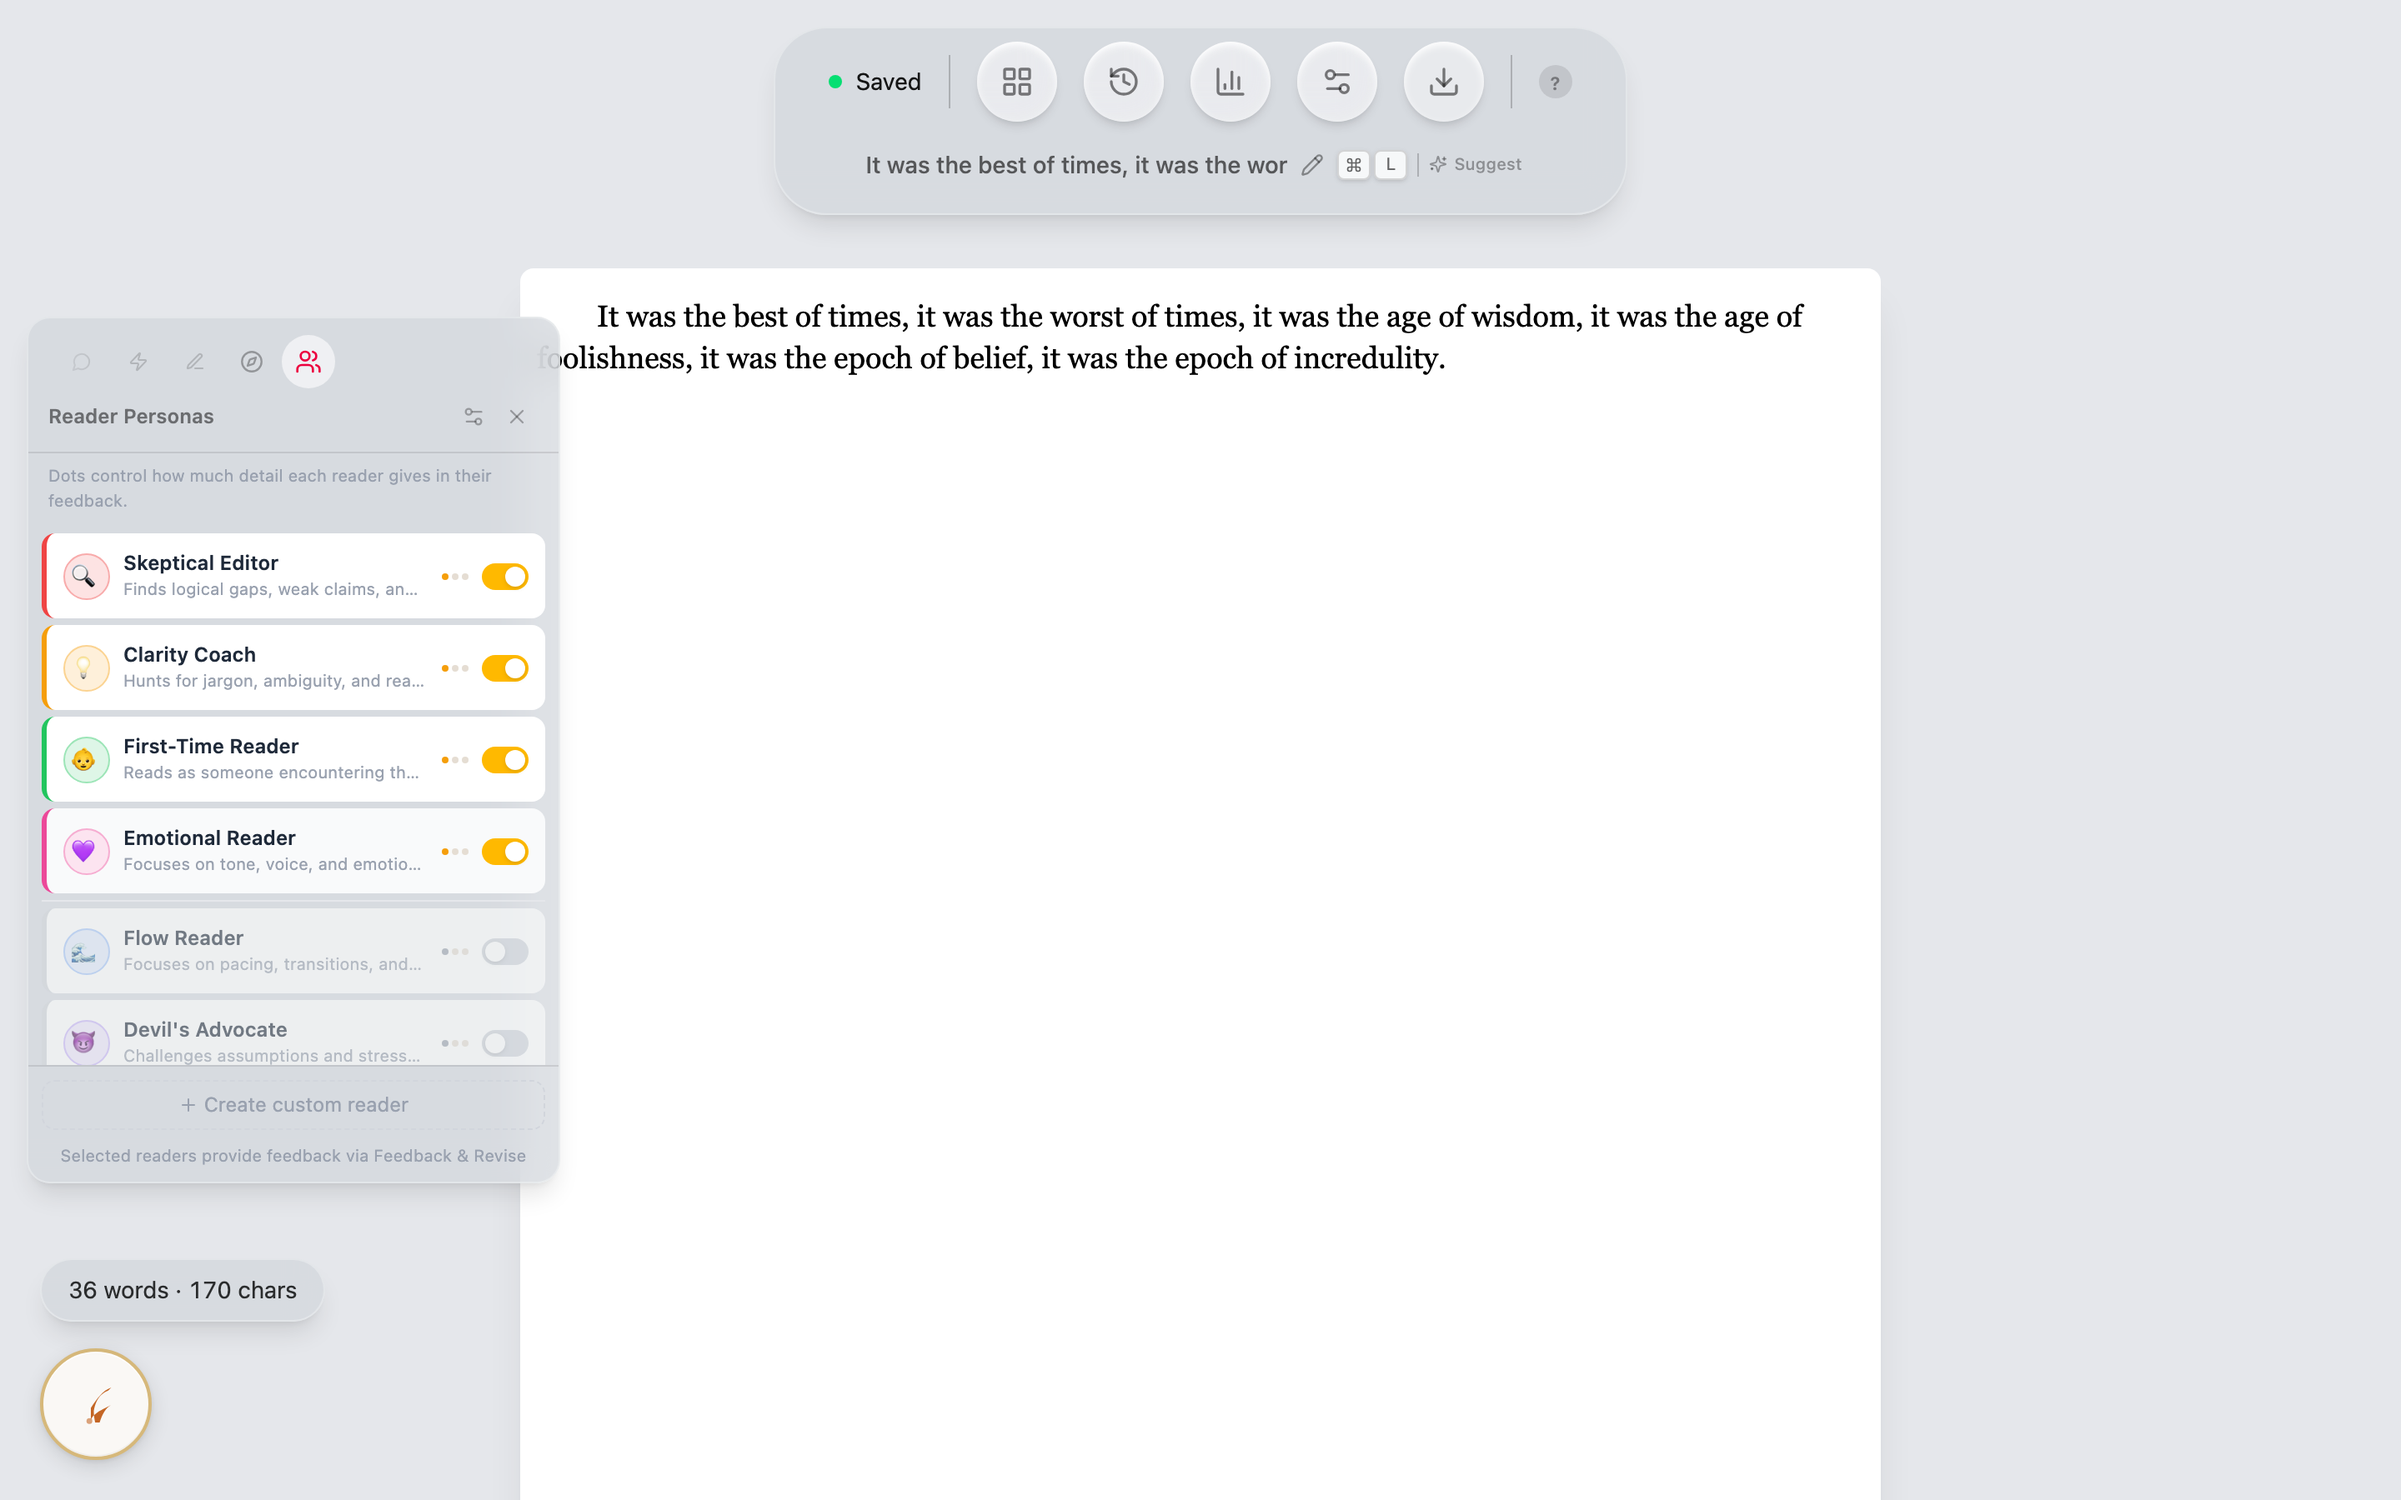
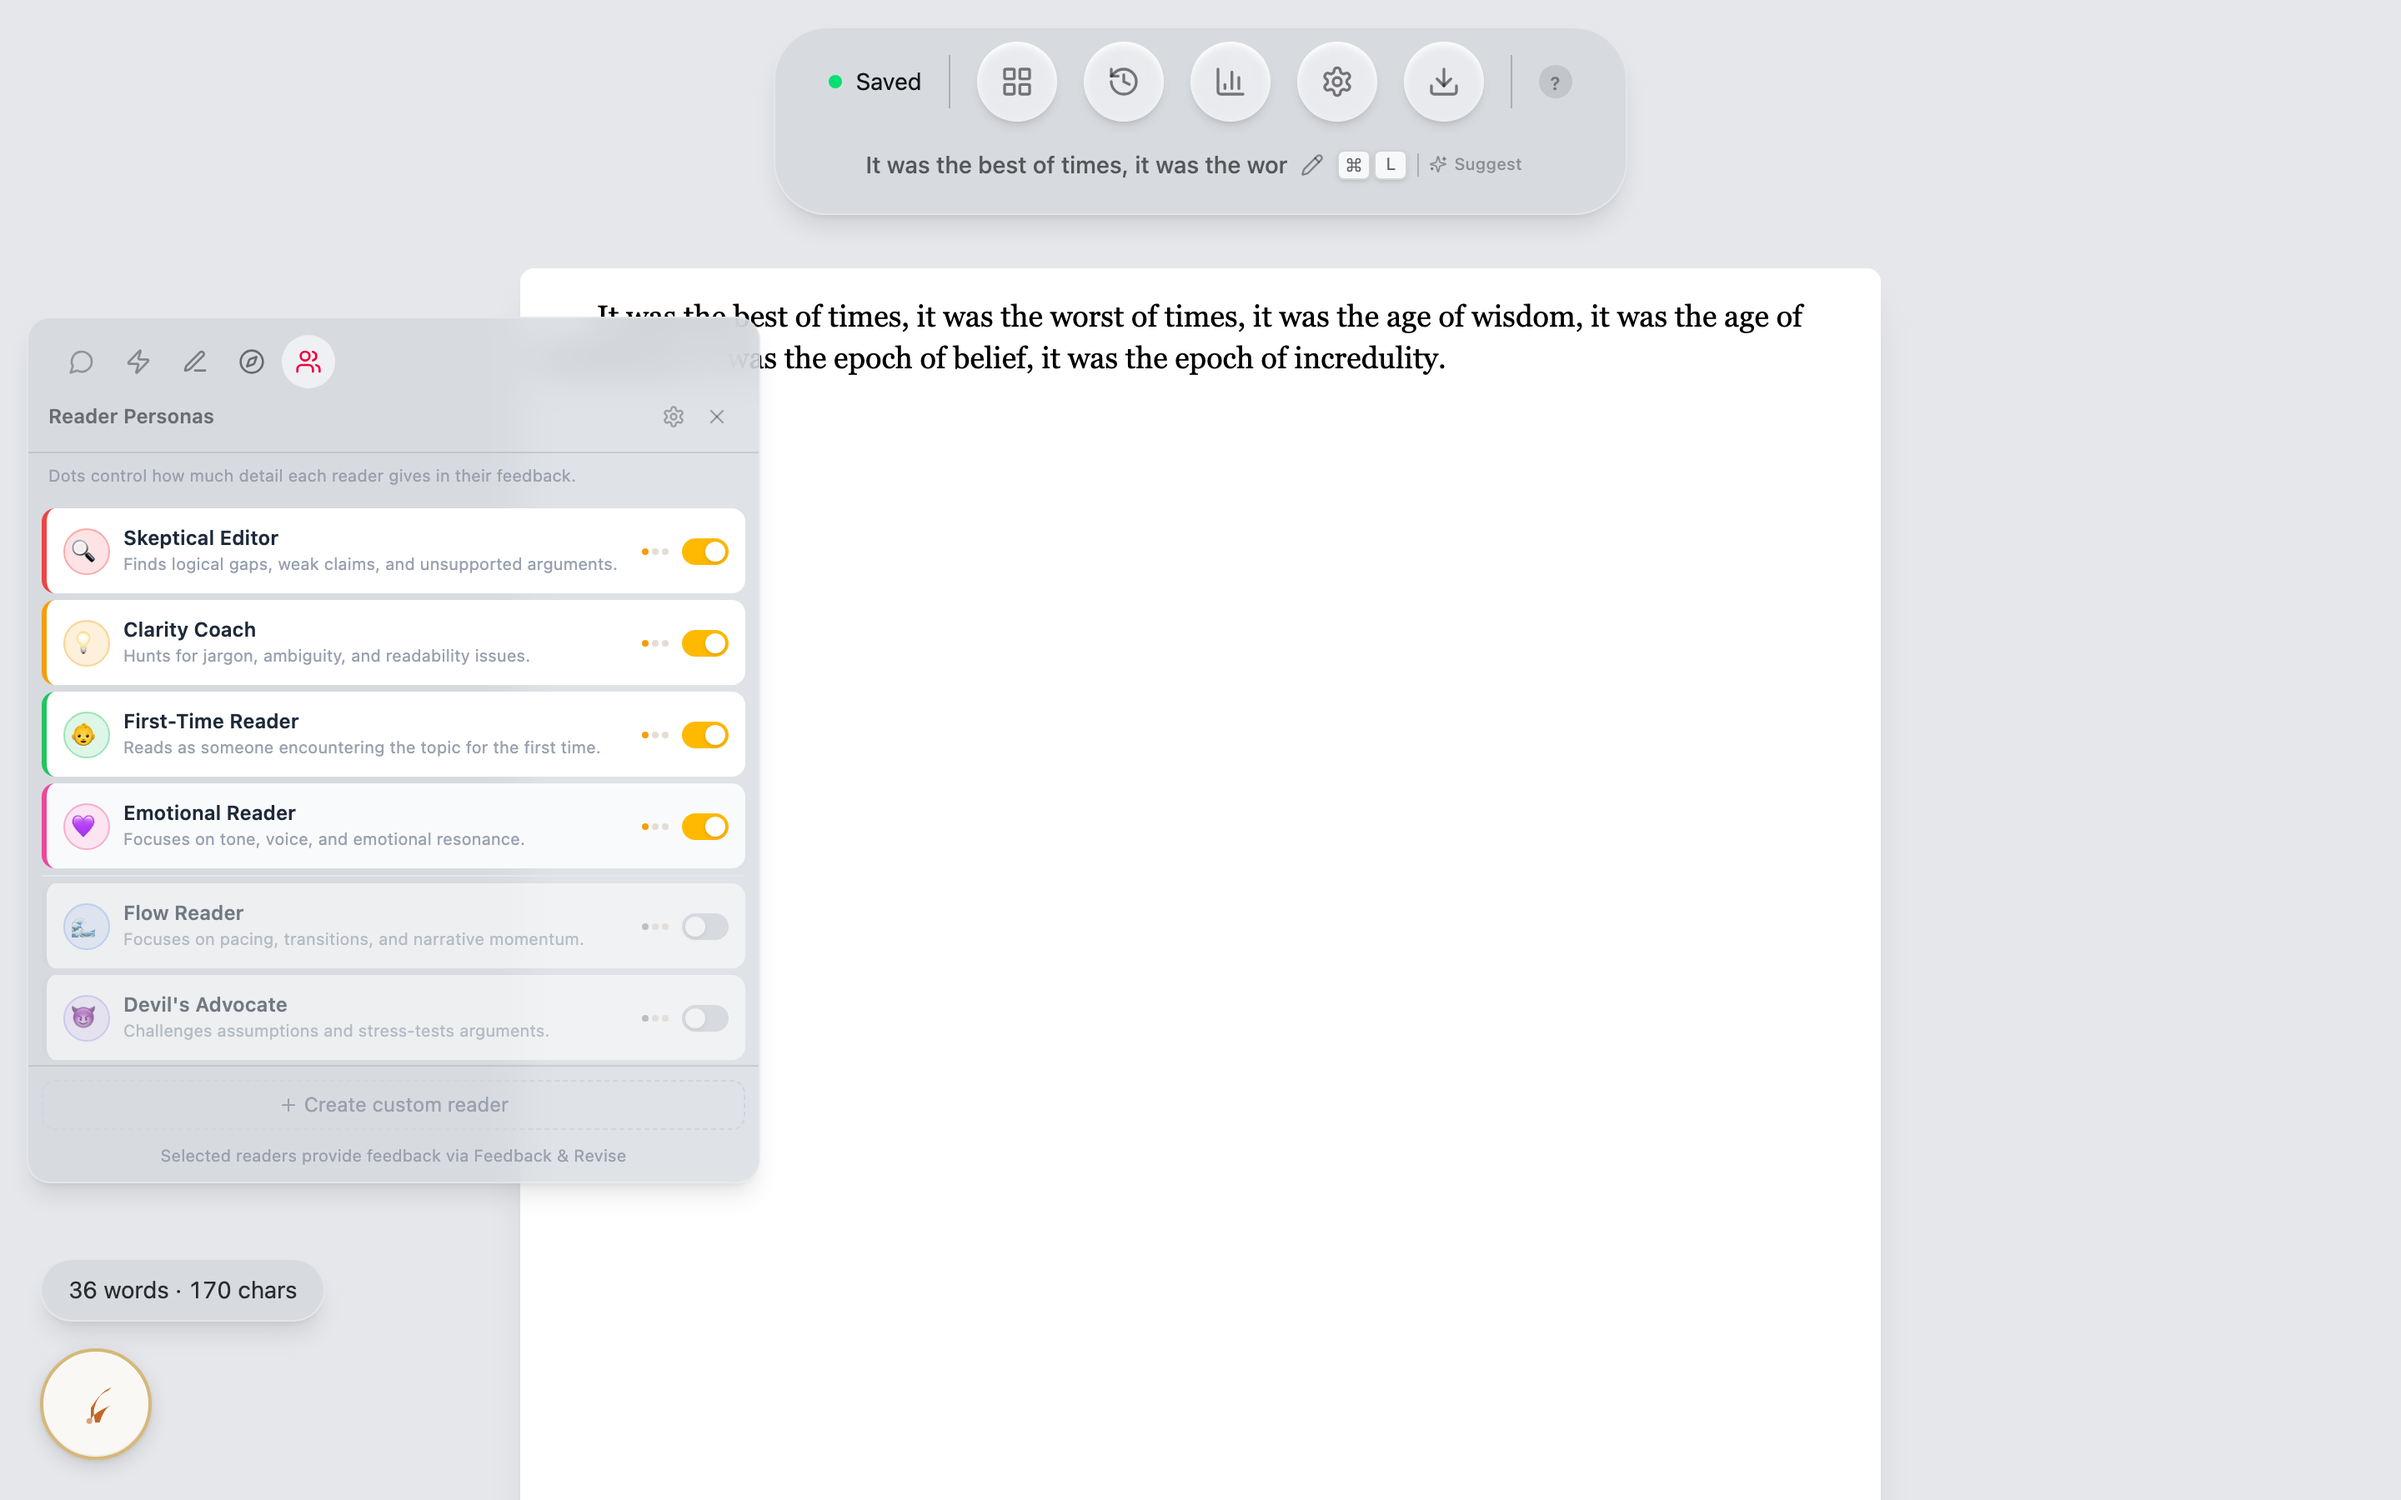
update ss script

Changed region(s): [[0.0, 0.1867, 0.3438, 0.8089], [0.5312, 0.0311, 0.5625, 0.0622]]

diff --git a/scripts/screenshots.ts b/scripts/screenshots.ts
@@ -126,6 +126,8 @@ async function installTauriMock(
         }) => {
             localStorage.setItem("quillium_tutorial_seen", "1");
             localStorage.setItem("quillium_beta_accepted", "true");
+            // Suppress the "What's New" changelog modal so it doesn't block clicks.
+            localStorage.setItem("quillium_changelog_seen", "99.99");
             // Signal that an API key has been saved so the settings module
             // calls loadApiKeyForProvider() on startup. Without this,
             // hasApiKey() always returns false and tab clicks redirect to Settings.
